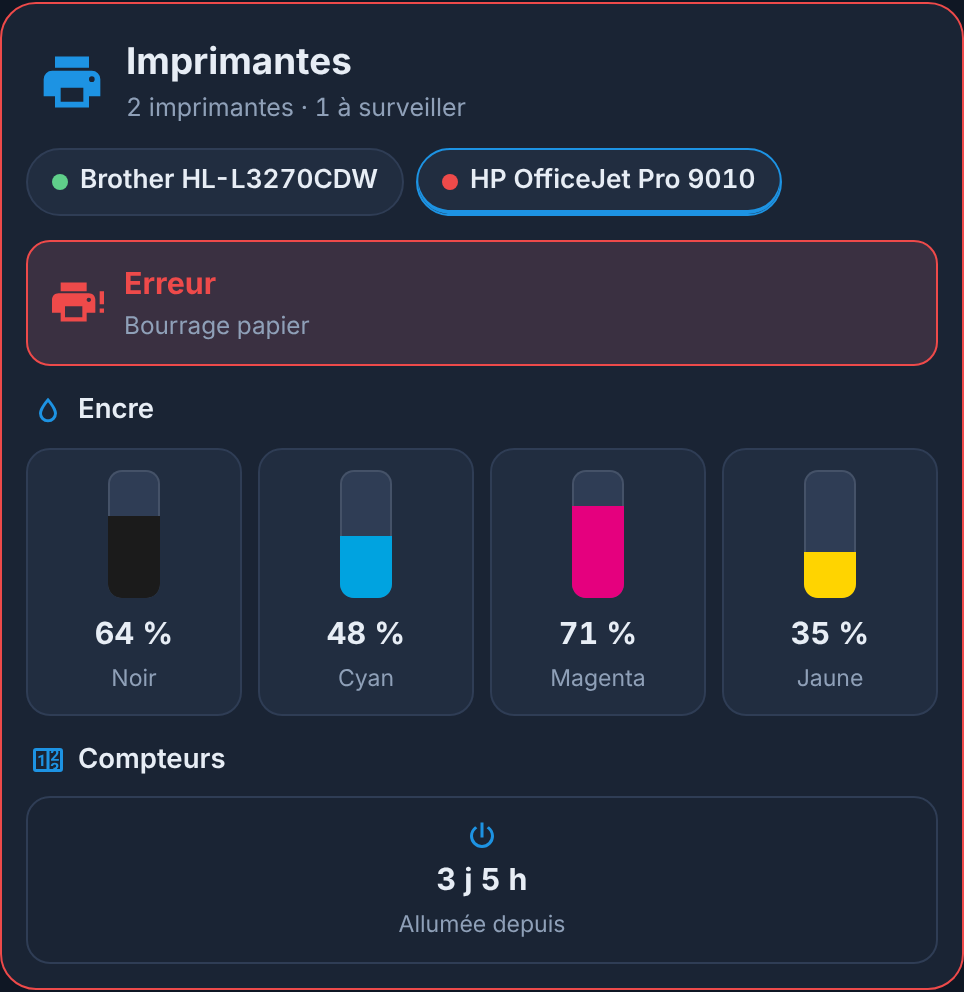
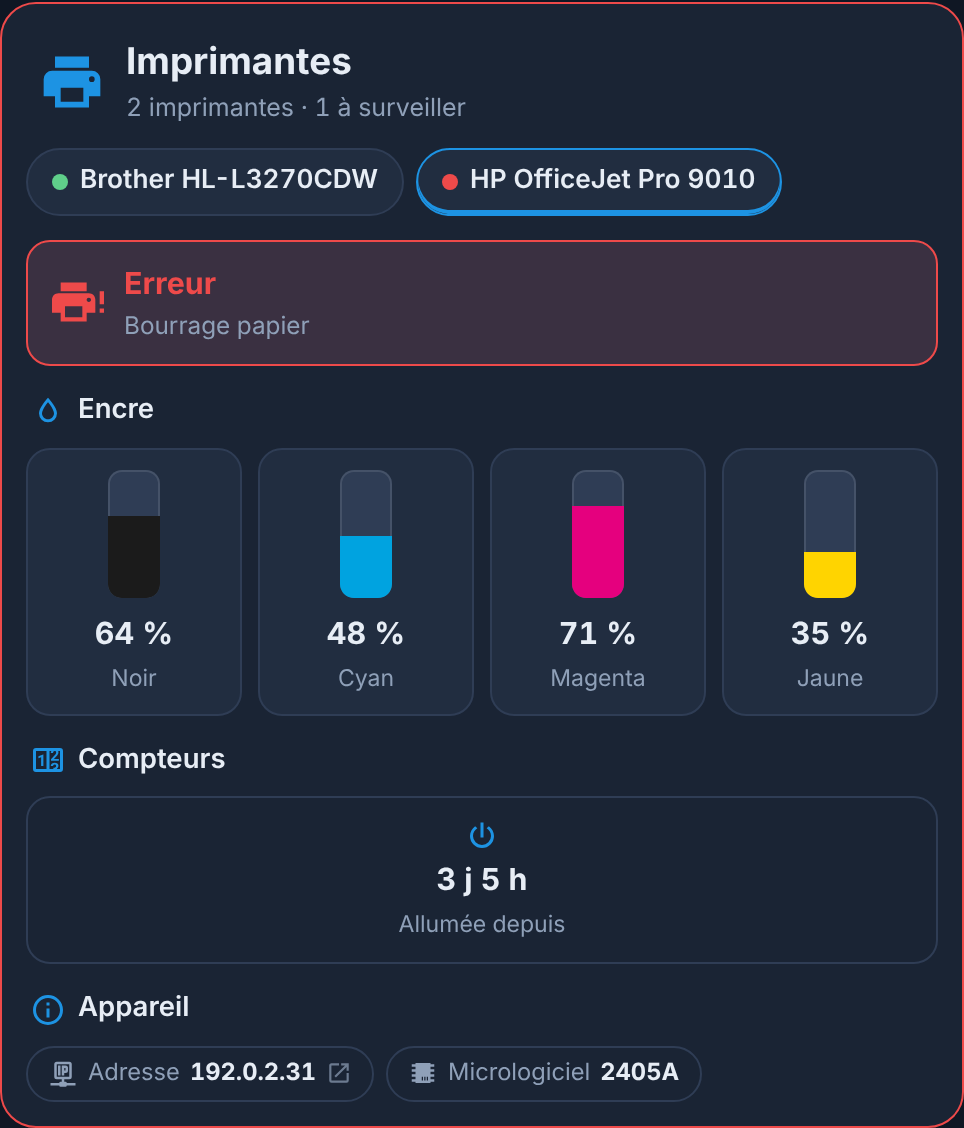
feat: adresse IP, micrologiciel et mises à jour des imprimantes (0.3.2-beta)
Nouveau bloc « Appareil » dans les deux cartes : adresse IP avec lien vers
la page d'administration de l'imprimante (page de configuration de
l'appareil, ou adresse IPP), version du micrologiciel, et mise à jour
disponible quand l'intégration fournit une entité update (un clic ouvre
l'installation dans Home Assistant). Option show_device.

Claude-Session: https://claude.ai/code/session_01CSixJnFf4qBMac7uTfNvnW

diff --git a/printers-card.js b/printers-card.js
@@ -14,7 +14,7 @@
  */
 
 (() => {
-const CARD_VERSION = "0.3.1-beta";
+const CARD_VERSION = "0.3.2-beta";
 
 /* ------------------------------------------------------------- affichage */
 
@@ -118,7 +118,7 @@ const DEFAULTS = {
   title: "",
   icon: "mdi:printer-3d",
   icon_color: "",
-  show_job: true, show_camera: true, show_temps: true, show_controls: true, show_stats: true,
+  show_job: true, show_camera: true, show_temps: true, show_controls: true, show_stats: true, show_device: true,
   camera_mode: "live", // live : vidéo en continu ; snapshot : une image toutes les camera_refresh secondes
   camera_refresh: 5, // secondes
   theme: "v2",
@@ -582,7 +582,8 @@ class PrintersCard extends HTMLElement {
       ].filter(Boolean) : [];
       const statsHtml = stats.length ? `<div class="pc-sec"><div class="pc-h"><ha-icon icon="mdi:chart-box-outline"></ha-icon>Statistiques</div><div class="pc-ss">${stats.join("")}</div></div>` : "";
 
-      body = tabs + `<div class="pc-sec">${state}</div>` + job + cam + tempsHtml + ctlHtml + statsHtml;
+      const devHtml = c.show_device !== false ? deviceBlock(this._hass, p.links || [p.id]) : "";
+      body = tabs + `<div class="pc-sec">${state}</div>` + job + cam + tempsHtml + ctlHtml + statsHtml + devHtml;
     }
 
     const alert = statuses.includes("error");
@@ -594,6 +595,42 @@ class PrintersCard extends HTMLElement {
     if (camShown) this._camMount(camShown);
     else this._camStop();
   }
+}
+
+/* ------------------------------------------------- appareil (commun aux deux cartes) */
+
+/** Adresse IP (ou nom) d'une imprimante : page de configuration de l'appareil, sinon adresse IPP. */
+const hostOf = (url) => { const m = /^[a-z][a-z0-9+.-]*:\/\/(\[[^\]]+\]|[^/:?#]+)/i.exec(String(url || "").trim()); return m ? m[1] : null; };
+
+/**
+ * Bloc « Appareil » : adresse IP avec lien vers la page de l'imprimante, micrologiciel, et mises à
+ * jour proposées par l'intégration (entités update de l'appareil).
+ */
+function deviceBlock(hass, devIds, extraUrls = []) {
+  const devs = devIds.map((id) => hass.devices?.[id]).filter(Boolean);
+  const dev = devs.find((d) => d.configuration_url) || devs[0];
+  if (!dev) return "";
+  const url = /^https?:\/\//i.test(dev.configuration_url || "") ? dev.configuration_url : null;
+  const host = hostOf(dev.configuration_url) || extraUrls.map(hostOf).find(Boolean) || null;
+  const sw = devs.map((d) => d.sw_version).find(Boolean);
+  const pills = [];
+  if (host) {
+    const inner = `<ha-icon icon="mdi:ip-network-outline"></ha-icon>Adresse <b>${esc(host)}</b>${url ? `<ha-icon class="po-ext" icon="mdi:open-in-new"></ha-icon>` : ""}`;
+    pills.push(url ? `<a class="pc-x po-link" href="${esc(url)}" target="_blank" rel="noopener noreferrer" title="Ouvrir la page de l'imprimante">${inner}</a>` : `<span class="pc-x">${inner}</span>`);
+  }
+  const ups = Object.entries(hass.entities || {}).filter(([id, e]) => id.startsWith("update.") && devIds.includes(e.device_id) && !e.hidden && hass.states?.[id]).map(([id]) => id);
+  // version installée seule quand aucune entité de mise à jour ne la donne déjà
+  if (sw && !ups.length) pills.push(`<span class="pc-x"><ha-icon icon="mdi:chip"></ha-icon>Micrologiciel <b>${esc(sw)}</b></span>`);
+  for (const id of ups) {
+    const st = hass.states?.[id];
+    if (!st) continue;
+    const a = st.attributes || {}, name = String(a.title || a.friendly_name || "").replace(dev.name_by_user || dev.name || "", "").trim();
+    const what = name || "Micrologiciel";
+    pills.push(st.state === "on"
+      ? `<span class="pc-x po-upd" data-entity="${esc(id)}" title="Ouvrir pour installer la mise à jour"><ha-icon icon="mdi:package-up"></ha-icon>${esc(what)} : mise à jour <b>${esc(a.installed_version || "?")} → ${esc(a.latest_version || "?")}</b></span>`
+      : `<span class="pc-x" data-entity="${esc(id)}"><ha-icon icon="mdi:check-circle-outline"></ha-icon>${esc(what)} <b>${esc(a.installed_version || "")}</b> à jour</span>`);
+  }
+  return pills.length ? `<div class="pc-sec"><div class="pc-h"><ha-icon icon="mdi:information-outline"></ha-icon>Appareil</div><div class="pc-xs">${pills.join("")}</div></div>` : "";
 }
 
 /* ------------------------------------------------------------------ style */
@@ -677,6 +714,11 @@ header { display: flex; align-items: center; justify-content: space-between; gap
 .pc-ss { display: grid; grid-template-columns: repeat(auto-fit, minmax(96px, 1fr)); gap: 6px; }
 .pc-s { display: flex; flex-direction: column; align-items: center; gap: 2px; padding: 10px 6px; border-radius: 12px; border: 1px solid var(--med-line); cursor: pointer; text-align: center; }
 .pc-s ha-icon { --mdc-icon-size: 18px; color: var(--med-blue); } .pc-s b { font-size: .95rem; } .pc-s span { font-size: .72rem; color: var(--med-muted); }
+a.po-link { text-decoration: none; color: var(--med-muted); }
+a.po-link:hover { border-color: var(--med-blue); } a.po-link:focus-visible { outline: 2px solid var(--med-blue); }
+.po-ext { --mdc-icon-size: 13px !important; opacity: .7; }
+.pc-x.po-upd { color: var(--pc-warn); border-color: color-mix(in srgb, var(--pc-warn) 50%, transparent); }
+.pc-x.po-upd b { color: var(--pc-warn); }
 .empty { padding: 18px; display: flex; flex-direction: column; gap: 6px; font-size: .9rem; } .empty span { color: var(--med-muted); }
 ha-card.th-ha {
   --med-bg: var(--ha-card-background, var(--card-background-color, #fff));
@@ -710,6 +752,7 @@ const SCHEMA = [
   { name: "show_temps", selector: { boolean: {} } },
   { name: "show_controls", selector: { boolean: {} } },
   { name: "show_stats", selector: { boolean: {} } },
+  { name: "show_device", selector: { boolean: {} } },
   { name: "theme", selector: { select: { mode: "dropdown", options: [
     { value: "v2", label: "Style MyElectricalData (bleu nuit)" },
     { value: "auto", label: "Style MyElectricalData, clair ou sombre selon Home Assistant" },
@@ -728,6 +771,7 @@ const LABELS = {
   show_temps: "Températures",
   show_controls: "Commandes (pause, reprise, annulation, arrêt d'urgence, lumières)",
   show_stats: "Statistiques",
+  show_device: "Appareil (adresse IP, micrologiciel, mises à jour)",
   theme: "Couleurs de la carte",
 };
 class PrintersCardEditor extends HTMLElement {
@@ -835,7 +879,7 @@ const officeNorm = (s) => {
 const OFFICE_DEFAULTS = {
   title: "", icon: "mdi:printer", icon_color: "",
   low_level: 15, // % : seuil d'alerte des consommables
-  show_supplies: true, show_parts: true, show_counters: true,
+  show_supplies: true, show_parts: true, show_counters: true, show_device: true,
   theme: "v2",
 };
 
@@ -1034,7 +1078,9 @@ class PrintersOfficeCard extends HTMLElement {
       ].filter(Boolean) : [];
       const countHtml = counters.length ? `<div class="pc-sec"><div class="pc-h"><ha-icon icon="mdi:counter"></ha-icon>Compteurs</div><div class="pc-ss">${counters.join("")}</div></div>` : "";
 
-      body = tabs + state + supHtml + partsHtml + countHtml;
+      const uri = this._st(r.status)?.attributes?.uri_supported;
+      const devHtml = c.show_device !== false ? deviceBlock(this._hass, [p.id], Array.isArray(uri) ? uri : String(uri || "").split(/[,\s]+/)) : "";
+      body = tabs + state + supHtml + partsHtml + countHtml + devHtml;
     }
 
     const alert = infos.some((x) => x.st.cls === "bad");
@@ -1075,6 +1121,7 @@ const OFFICE_SCHEMA = [
   { name: "show_supplies", selector: { boolean: {} } },
   { name: "show_parts", selector: { boolean: {} } },
   { name: "show_counters", selector: { boolean: {} } },
+  { name: "show_device", selector: { boolean: {} } },
   SCHEMA.find((s) => s.name === "theme"),
 ];
 const OFFICE_LABELS = {
@@ -1086,6 +1133,7 @@ const OFFICE_LABELS = {
   show_supplies: "Encre et toner",
   show_parts: "Pièces d'usure (tambour, unité de fixation…)",
   show_counters: "Compteurs de pages",
+  show_device: "Appareil (adresse IP, micrologiciel, mises à jour)",
   theme: "Couleurs de la carte",
 };
 class PrintersOfficeCardEditor extends PrintersCardEditor {

diff --git a/docs/demo.html b/docs/demo.html
@@ -187,7 +187,7 @@
     const j = state.job, active = j === "printing" || j === "paused";
     const pct = { printing: 62, paused: 41, complete: 100, error: 18, idle: 100, offline: null }[j];
     for (const [dev, link, alive] of [["v-eth", "Ethernet", j !== "offline"], ["v-wifi", "WIFI", false]]) {
-      devices[dev] = { id: dev, name: `Voron 2.4 ${link}`, manufacturer: "Klipper", model: "Moonraker" };
+      devices[dev] = { id: dev, name: `Voron 2.4 ${link}`, manufacturer: "Klipper", model: "Moonraker", sw_version: "v0.12.0-354", configuration_url: link === "Ethernet" ? "http://192.0.2.40" : "http://192.0.2.41" };
       const p = `voron_2_4_${link.toLowerCase()}`;
       const s = (k, v, u) => add(dev, "moonraker", `sensor.${p}_${k}`, alive ? v : "unavailable", u ? { unit_of_measurement: u } : {});
       const n = (k, v, u) => add(dev, "moonraker", `number.${p}_${k}`, alive ? v : "unavailable", u ? { unit_of_measurement: u } : {});
@@ -228,13 +228,15 @@
     // Imprimantes de bureau : jet d'encre par IPP, laser couleur par l'intégration Brother
     const o = state.office;
     const addk = (dev, platform, id, v, attrs = {}, tk = null) => { add(dev, platform, id, v, attrs); ent[id].translation_key = tk; };
-    devices.hp = { id: "hp", name: "HP OfficeJet Pro 9010", manufacturer: "HP", model: "OfficeJet Pro 9010" };
+    devices.hp = { id: "hp", name: "HP OfficeJet Pro 9010", manufacturer: "HP", model: "OfficeJet Pro 9010", sw_version: "2405A", configuration_url: "http://192.0.2.31:631" };
     addk("hp", "ipp", "sensor.hp_officejet_pro_9010", o === "sleep" ? "idle" : o === "jam" ? "stopped" : "idle",
-      { state_reason: o === "jam" ? "media-jam-error" : o === "sleep" ? "sleep" : "none", state_message: "" }, "printer");
+      { state_reason: o === "jam" ? "media-jam-error" : o === "sleep" ? "sleep" : "none", state_message: "", uri_supported: "ipp://192.0.2.31:631/ipp/print" }, "printer");
     for (const [k, n, v] of [["black_ink", "Black ink", o === "low" ? 6 : 64], ["cyan_ink", "Cyan ink", 48], ["magenta_ink", "Magenta ink", o === "low" ? 12 : 71], ["yellow_ink", "Yellow ink", 35]])
       addk("hp", "ipp", `sensor.hp_officejet_pro_9010_${k}`, v, { unit_of_measurement: "%", friendly_name: `HP OfficeJet Pro 9010 ${n}`, marker_low_level: 10 }, "marker");
     addk("hp", "ipp", "sensor.hp_officejet_pro_9010_uptime", new Date(Date.now() - 3 * 86400e3 - 5 * 3600e3).toISOString(), {}, "uptime");
-    devices.br = { id: "br", name: "Brother HL-L3270CDW", manufacturer: "Brother", model: "HL-L3270CDW" };
+    devices.br = { id: "br", name: "Brother HL-L3270CDW", manufacturer: "Brother", model: "HL-L3270CDW", sw_version: "ZC", configuration_url: "http://192.0.2.32/" };
+    // mise à jour proposée par l'intégration (entité update de l'appareil)
+    add("br", "brother", "update.hl_l3270cdw_firmware", o === "low" ? "off" : "on", { title: "Micrologiciel", installed_version: "ZC", latest_version: "ZD", friendly_name: "Brother HL-L3270CDW Micrologiciel" });
     addk("br", "brother", "sensor.hl_l3270cdw_status", o === "sleep" ? "sleep" : "ready", {}, "status");
     for (const [c, v] of [["black", o === "low" ? 9 : 55], ["cyan", 80], ["magenta", 80], ["yellow", 70]])
       addk("br", "brother", `sensor.hl_l3270cdw_${c}_toner_remaining`, v, { unit_of_measurement: "%", friendly_name: `Brother HL-L3270CDW ${c} toner remaining` }, `${c}_toner_remaining`);

diff --git a/README.md b/README.md
@@ -114,6 +114,7 @@ La carte a un **éditeur visuel**. Sans réglage, elle affiche toutes les imprim
 - **Températures** : buse, plateau et caisson, avec la consigne et la puissance de chauffe, ou « Refroidissement » après l'impression ; températures de l'hôte et de la carte mère, ventilateur.
 - **Commandes** : pause, reprise, annulation, arrêt d'urgence, retour à l'origine et lumières. **Annuler, l'arrêt d'urgence et l'origine se confirment en deux clics** : le premier arme le bouton (coche orange qui pulse), le second dans les 5 secondes envoie la commande.
 - **Statistiques** : nombre d'impressions, temps total, filament total, plus longue impression.
+- **Appareil** : adresse IP de l'imprimante, avec un lien vers sa page d'administration, version du micrologiciel, et mise à jour disponible quand l'intégration en propose une (un clic ouvre la fenêtre d'installation de Home Assistant).
 
 Un clic sur un élément ouvre la fiche de l'entité dans Home Assistant.
 
@@ -127,7 +128,7 @@ Un clic sur un élément ouvre la fiche de l'entité dans Home Assistant.
 | `camera` | Caméra à afficher, à la place de celle de l'imprimante | caméra de l'imprimante |
 | `camera_mode` | `live` (vidéo en direct) ou `snapshot` (image par image) | `live` |
 | `camera_refresh` | Rafraîchissement en mode `snapshot` (secondes, 2 au minimum) | `5` |
-| `show_job`, `show_camera`, `show_temps`, `show_controls`, `show_stats` | Afficher chaque partie | `true` |
+| `show_job`, `show_camera`, `show_temps`, `show_controls`, `show_stats`, `show_device` | Afficher chaque partie | `true` |
 | `theme` | `v2` (bleu nuit MyElectricalData), `auto` (clair ou sombre selon Home Assistant) ou `ha` (thème Home Assistant) | `v2` |
 
 Exemple avec deux imprimantes, un nom et une caméra choisis :
@@ -158,6 +159,7 @@ La carte a un **éditeur visuel**. Sans réglage, elle affiche toutes les imprim
 - **Encre ou toner** : une jauge par cartouche, à sa couleur (noir, cyan, magenta, jaune, couleur, noir photo…), avec « Bas » ou « À remplacer » sous le seuil d'alerte (15 % par défaut, ou le seuil donné par l'imprimante).
 - **Pièces d'usure** (Brother) : tambour, unité de fixation, courroie, laser, kit papier, avec leur durée de vie restante.
 - **Compteurs** : pages imprimées, noir et blanc, couleur, recto verso, et durée depuis le dernier démarrage.
+- **Appareil** : adresse IP de l'imprimante, avec un lien vers sa page d'administration, version du micrologiciel, et mise à jour disponible quand l'intégration en propose une (un clic ouvre la fenêtre d'installation de Home Assistant).
 
 Un clic sur un élément ouvre la fiche de l'entité dans Home Assistant.
 
@@ -169,7 +171,7 @@ Un clic sur un élément ouvre la fiche de l'entité dans Home Assistant.
 | `icon`, `icon_color` | Icône et couleur de l'icône | `mdi:printer`, bleu |
 | `printers` | Imprimantes affichées, dans cet ordre : appareils, ou `{ device, name }` | toutes |
 | `low_level` | Seuil d'alerte de l'encre et du toner (%) | `15` |
-| `show_supplies`, `show_parts`, `show_counters` | Afficher chaque partie | `true` |
+| `show_supplies`, `show_parts`, `show_counters`, `show_device` | Afficher chaque partie | `true` |
 | `theme` | `v2`, `auto` ou `ha` | `v2` |
 
 ## Support
